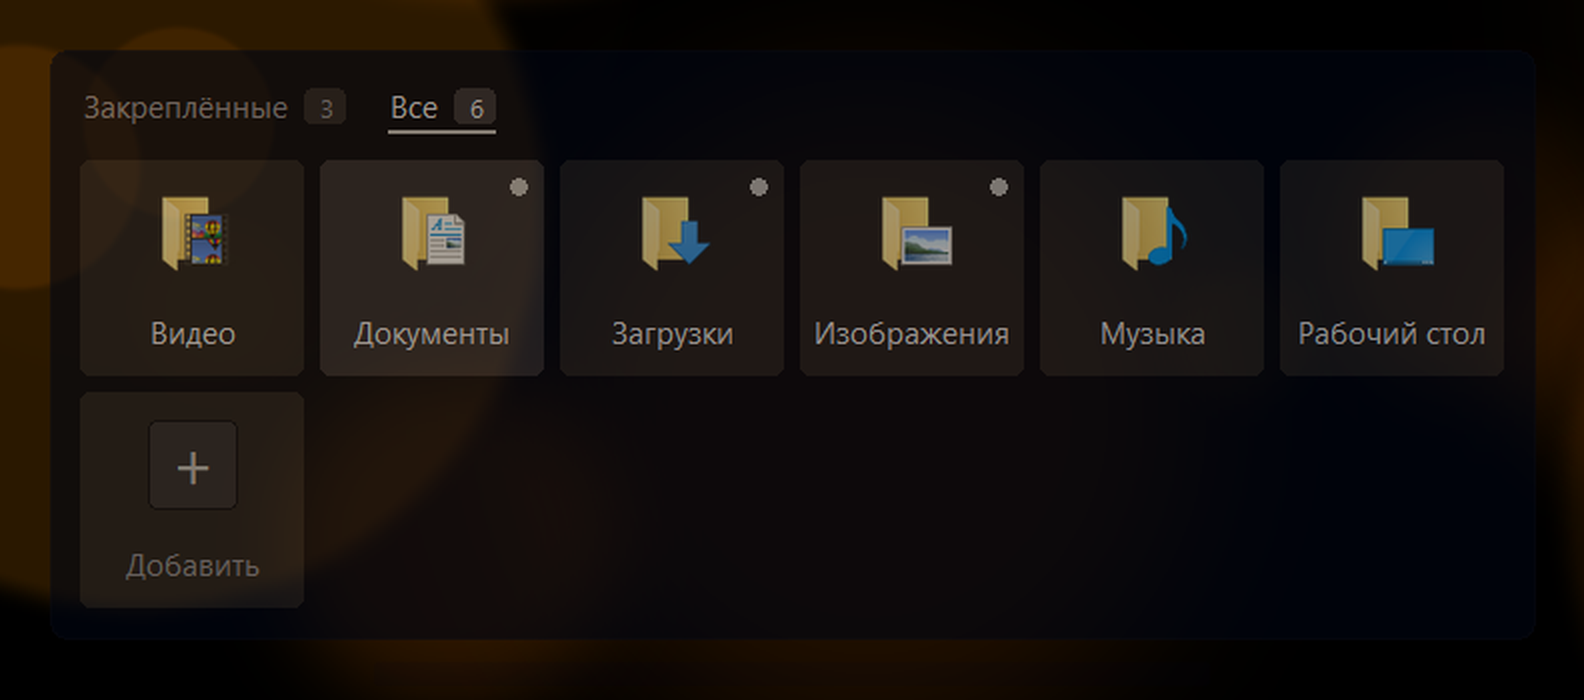
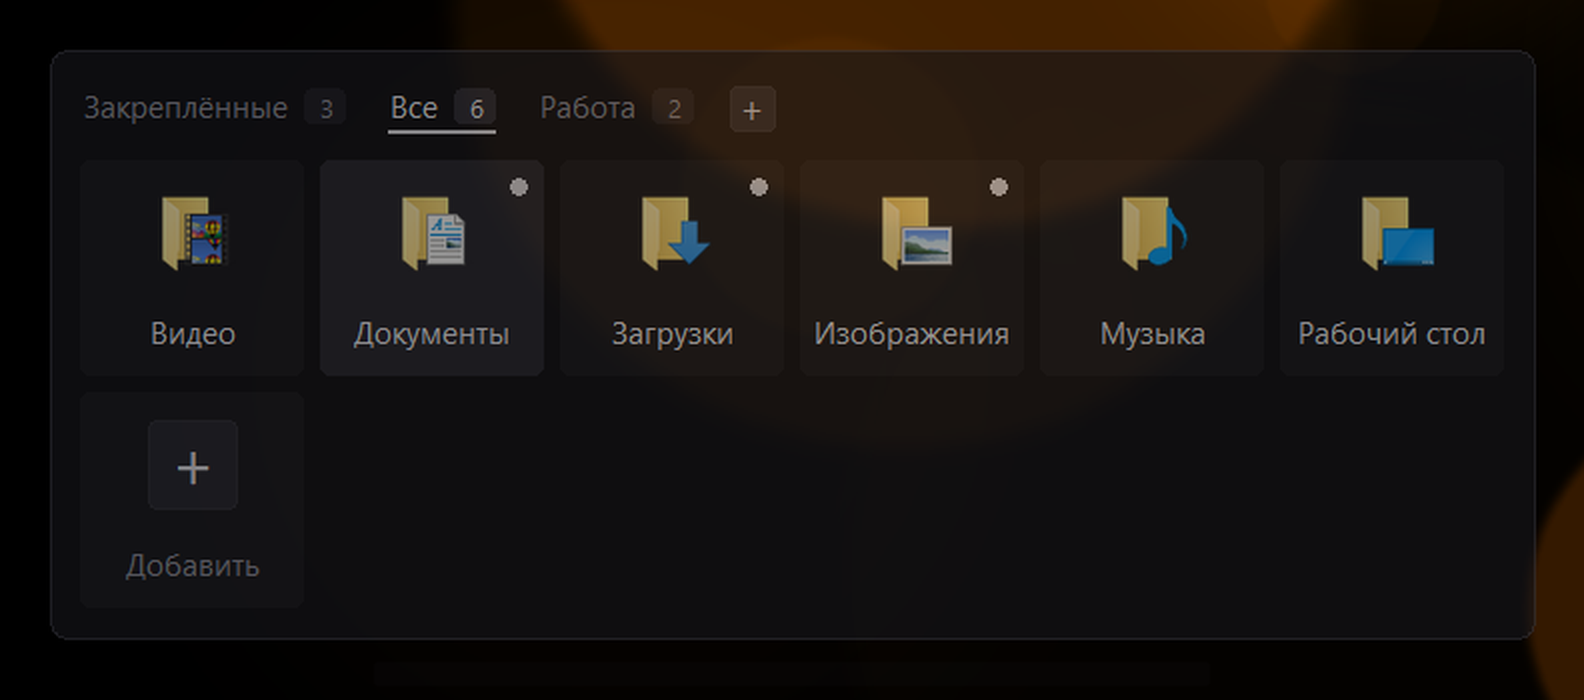
Скриншоты с вкладками и группой, раздел «Группы» в README

diff --git a/README.md b/README.md
@@ -57,6 +57,19 @@
 </tr>
 </table>
 
+## Группы
+
+Свои подборки ярлыков: «Работа», «Учёба», «Игры» — что угодно. Создаются кнопкой **«+»** справа от вкладок.
+
+<p align="center">
+  <img src="docs/screenshots/panel-group.png" width="640" alt="Группа «Работа»">
+</p>
+
+- **Создать** — «+» → ввести название.
+- **Положить ярлык** — правый клик по плитке → «Добавить в группу» → выбрать группу. Галочка ✓ показывает, что ярлык уже там (повторный клик убирает). В этом же меню есть «Новая группа…».
+- **Переименовать / удалить** — правый клик по вкладке группы.
+- Группы ничего не копируют: это подборки из той же папки панели, один ярлык может быть в нескольких группах.
+
 ## Быстрый старт
 
 1. Установите Python 3.10+ и Pillow:
